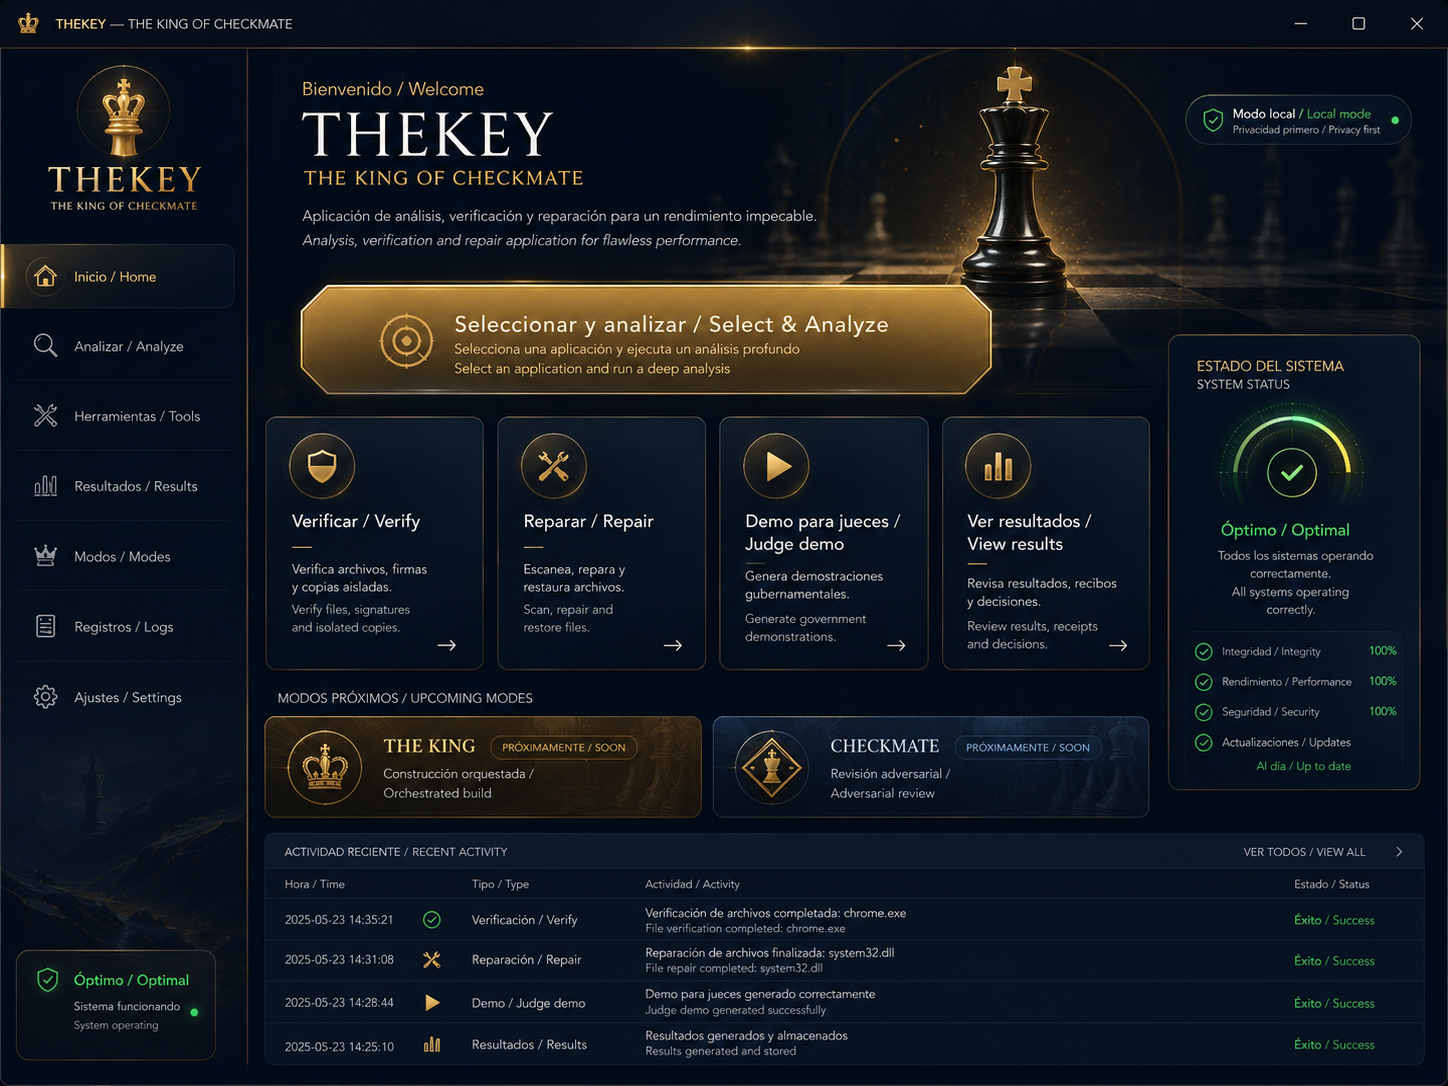
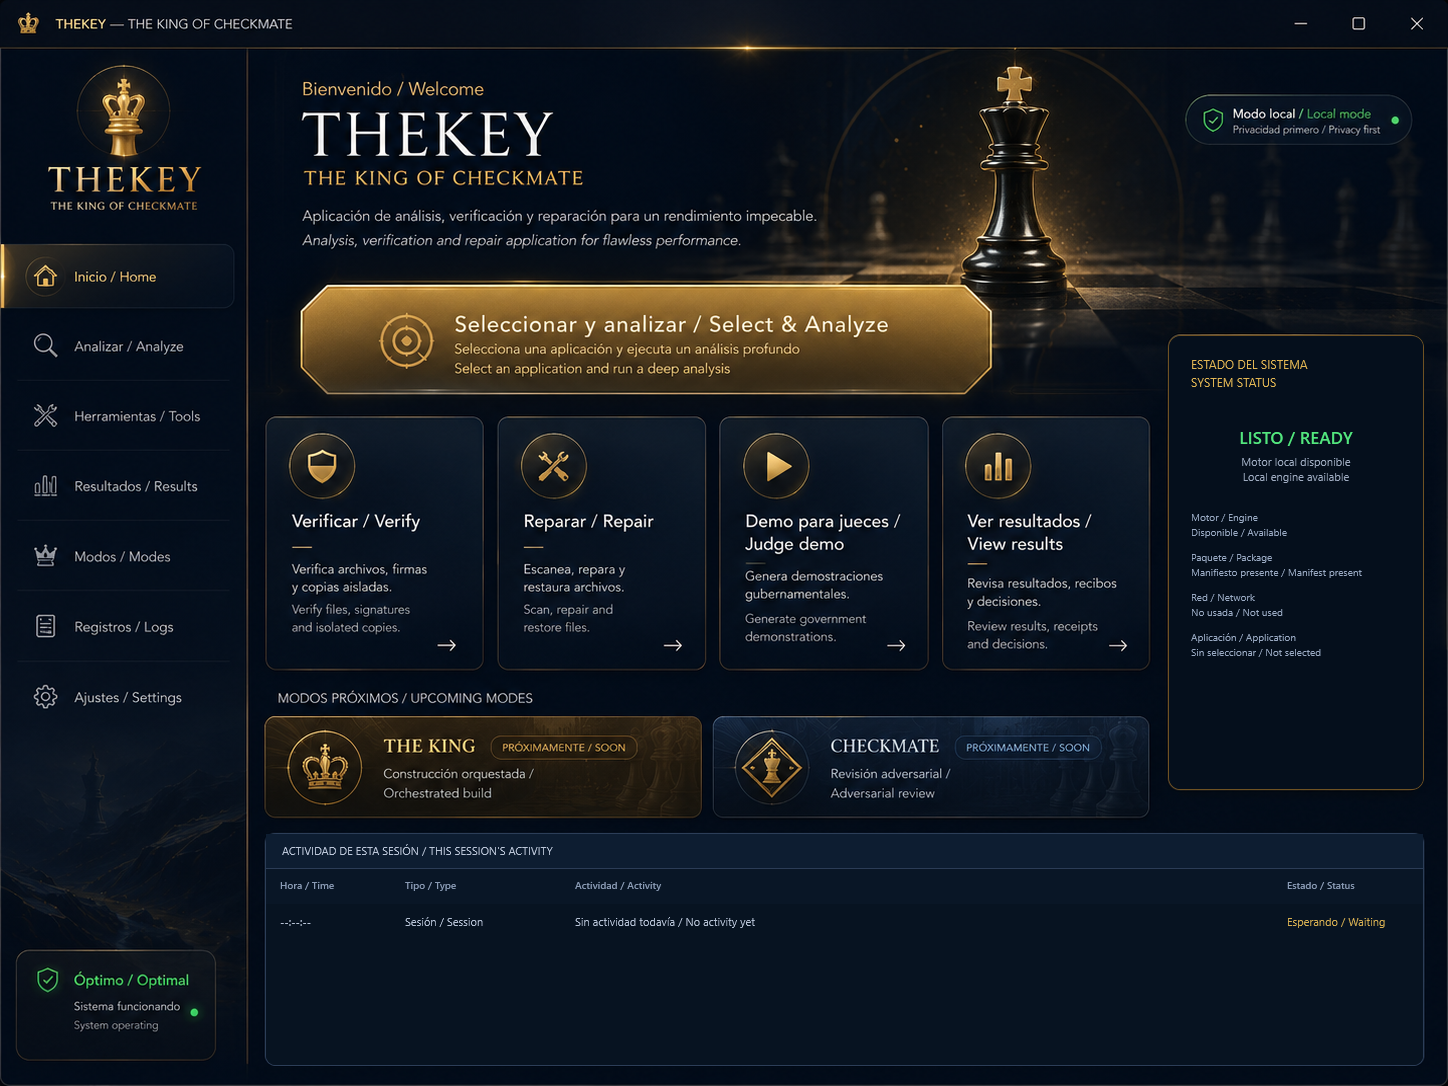
fix: harden portable Build Week delivery

diff --git a/portable/windows/TheKeyLauncher.cs b/portable/windows/TheKeyLauncher.cs
@@ -175,7 +175,12 @@ namespace TheKeyPortable
             Left = workAreaBounds.Left + Math.Max(0, (workAreaBounds.Width - Width) / 2);
             Top = workAreaBounds.Top + Math.Max(0, (workAreaBounds.Height - Height) / 2);
             WindowStyle = WindowStyle.None;
-            ResizeMode = ResizeMode.CanResize;
+            // A resizable borderless WPF window still receives a seven-pixel
+            // non-client resize frame.  That silently shrinks the client area
+            // and prevents the canonical bitmap from rendering one-to-one at
+            // 1448x1086.  The in-image maximize control still provides the
+            // uniform, letterboxed alternate-resolution view.
+            ResizeMode = ResizeMode.NoResize;
             UseLayoutRounding = true;
             SnapsToDevicePixels = true;
             Background = new SolidColorBrush(Color.FromRgb(4, 7, 12));
@@ -195,6 +200,10 @@ namespace TheKeyPortable
             scaler.StretchDirection = StretchDirection.Both;
             scaler.HorizontalAlignment = HorizontalAlignment.Stretch;
             scaler.VerticalAlignment = VerticalAlignment.Stretch;
+            // The canonical dashboard is a packaged raster reference.  When a
+            // smaller display requires a uniform fit, explicitly request WPF's
+            // best bitmap resampler instead of its DPI-dependent default.
+            RenderOptions.SetBitmapScalingMode(scaler, BitmapScalingMode.HighQuality);
             letterbox.Children.Add(scaler);
 
             Canvas composition = new Canvas();
@@ -270,6 +279,10 @@ namespace TheKeyPortable
             output.Text = "THEKEY listo / ready. Selecciona una aplicación para comenzar / Select an application to begin.\r\n";
             status = new TextBlock();
             status.Text = File.Exists(backend) ? "LISTO / READY" : "FALTA EL MOTOR / BACKEND MISSING";
+            status.Foreground = new SolidColorBrush(
+                File.Exists(backend) ? Color.FromRgb(83, 231, 126) : Color.FromRgb(255, 126, 126));
+            AddLiveSystemPanel(actions);
+            AddLiveActivityPanel(actions);
 
             string verificationCapture = Environment.GetEnvironmentVariable("THEKEY_CAPTURE_PATH");
             if (!String.IsNullOrWhiteSpace(verificationCapture))
@@ -316,6 +329,133 @@ namespace TheKeyPortable
             {
                 encoder.Save(stream);
             }
+        }
+
+        // The dashboard artwork is intentionally static, but operational data
+        // must always come from this running process. These opaque panels hide
+        // the illustrative values in the artwork and expose only facts the
+        // launcher can establish locally.
+        private void AddLiveSystemPanel(Panel host)
+        {
+            Border panel = new Border
+            {
+                Width = 256,
+                Height = 455,
+                Padding = new Thickness(22, 20, 22, 16),
+                CornerRadius = new CornerRadius(12),
+                Background = new SolidColorBrush(Color.FromRgb(5, 15, 28)),
+                BorderBrush = new SolidColorBrush(Color.FromRgb(111, 82, 35)),
+                BorderThickness = new Thickness(1),
+                IsHitTestVisible = false
+            };
+            StackPanel content = new StackPanel();
+            content.Children.Add(new TextBlock
+            {
+                Text = "ESTADO DEL SISTEMA\nSYSTEM STATUS",
+                FontSize = 12,
+                Foreground = new SolidColorBrush(Color.FromRgb(226, 182, 84)),
+                LineHeight = 18
+            });
+            status.FontSize = 17;
+            status.FontWeight = FontWeights.SemiBold;
+            status.TextAlignment = TextAlignment.Center;
+            status.HorizontalAlignment = HorizontalAlignment.Stretch;
+            status.Margin = new Thickness(0, 34, 0, 5);
+            content.Children.Add(status);
+            content.Children.Add(new TextBlock
+            {
+                Text = File.Exists(backend)
+                    ? "Motor local disponible\nLocal engine available"
+                    : "Motor local no disponible\nLocal engine unavailable",
+                FontSize = 11,
+                Foreground = new SolidColorBrush(Color.FromRgb(161, 174, 195)),
+                TextAlignment = TextAlignment.Center,
+                Margin = new Thickness(0, 0, 0, 20)
+            });
+            content.Children.Add(CreateLiveStatusLine(
+                "Motor / Engine", File.Exists(backend) ? "Disponible / Available" : "No disponible / Unavailable"));
+            string manifest = Path.Combine(root, "BUILD_MANIFEST.json");
+            content.Children.Add(CreateLiveStatusLine(
+                "Paquete / Package", File.Exists(manifest) ? "Manifiesto presente / Manifest present" : "Sin manifiesto / No manifest"));
+            content.Children.Add(CreateLiveStatusLine(
+                "Red / Network", "No usada / Not used"));
+            sourceState = CreateLiveStatusLine("Aplicación / Application", "Sin seleccionar / Not selected");
+            content.Children.Add(sourceState);
+            panel.Child = content;
+            Canvas.SetLeft(panel, 1168);
+            Canvas.SetTop(panel, 335);
+            Panel.SetZIndex(panel, 2);
+            host.Children.Add(panel);
+        }
+
+        private TextBlock CreateLiveStatusLine(string label, string value)
+        {
+            return new TextBlock
+            {
+                Text = label + "\n" + value,
+                FontSize = 10,
+                Foreground = new SolidColorBrush(Color.FromRgb(153, 169, 194)),
+                Margin = new Thickness(0, 7, 0, 3),
+                LineHeight = 15
+            };
+        }
+
+        private void AddLiveActivityPanel(Panel host)
+        {
+            Border panel = new Border
+            {
+                Width = 1159,
+                Height = 233,
+                CornerRadius = new CornerRadius(10),
+                Background = new SolidColorBrush(Color.FromRgb(7, 19, 33)),
+                BorderBrush = new SolidColorBrush(Color.FromRgb(44, 62, 88)),
+                BorderThickness = new Thickness(1),
+                IsHitTestVisible = false
+            };
+            Grid layout = new Grid();
+            layout.RowDefinitions.Add(new RowDefinition { Height = GridLength.Auto });
+            layout.RowDefinitions.Add(new RowDefinition { Height = GridLength.Auto });
+            layout.RowDefinitions.Add(new RowDefinition { Height = GridLength.Auto });
+            Border header = new Border
+            {
+                Padding = new Thickness(16, 9, 16, 9),
+                Background = new SolidColorBrush(Color.FromRgb(13, 29, 49)),
+                BorderBrush = new SolidColorBrush(Color.FromRgb(43, 60, 86)),
+                BorderThickness = new Thickness(0, 0, 0, 1),
+                Child = new TextBlock
+                {
+                    Text = "ACTIVIDAD DE ESTA SESIÓN / THIS SESSION'S ACTIVITY",
+                    FontSize = 11,
+                    Foreground = new SolidColorBrush(Color.FromRgb(191, 202, 220))
+                }
+            };
+            layout.Children.Add(header);
+            Grid columns = CreateActivityGrid();
+            columns.Background = new SolidColorBrush(Color.FromRgb(9, 22, 38));
+            columns.Children.Add(CreateActivityCell("Hora / Time", 0, true));
+            columns.Children.Add(CreateActivityCell("Tipo / Type", 1, true));
+            columns.Children.Add(CreateActivityCell("Actividad / Activity", 2, true));
+            columns.Children.Add(CreateActivityCell("Estado / Status", 3, true));
+            Grid.SetRow(columns, 1);
+            layout.Children.Add(columns);
+            Grid row = CreateActivityGrid();
+            row.Margin = new Thickness(0, 1, 0, 0);
+            recentTime = CreateActivityCell("--:--:--", 0, false);
+            recentType = CreateActivityCell("Sesión / Session", 1, false);
+            recentActivity = CreateActivityCell("Sin actividad todavía / No activity yet", 2, false);
+            recentState = CreateActivityCell("Esperando / Waiting", 3, false);
+            recentState.Foreground = new SolidColorBrush(Color.FromRgb(216, 177, 83));
+            row.Children.Add(recentTime);
+            row.Children.Add(recentType);
+            row.Children.Add(recentActivity);
+            row.Children.Add(recentState);
+            Grid.SetRow(row, 2);
+            layout.Children.Add(row);
+            panel.Child = layout;
+            Canvas.SetLeft(panel, 265);
+            Canvas.SetTop(panel, 833);
+            Panel.SetZIndex(panel, 2);
+            host.Children.Add(panel);
         }
 
         private static Button AddHotspot(
@@ -801,8 +941,8 @@ namespace TheKeyPortable
                 TextAlignment = TextAlignment.Center,
                 Margin = new Thickness(0, 7, 0, 18)
             });
-            content.Children.Add(CreateStatusLine("✓", "Integridad / Integrity", "Verificada / Verified"));
-            content.Children.Add(CreateStatusLine("✓", "Red / Network", "No requerida / Not required"));
+            content.Children.Add(CreateStatusLine("○", "Paquete / Package", "Manifiesto presente / Manifest present"));
+            content.Children.Add(CreateStatusLine("○", "Red / Network", "No usada / Not used"));
             sourceState = CreateStatusLine("○", "Aplicación / Application", "Sin seleccionar / Not selected");
             content.Children.Add(sourceState);
             panel.Child = content;

diff --git a/tests/unit/test_portable_entry.py b/tests/unit/test_portable_entry.py
@@ -9,11 +9,13 @@ from pathlib import Path
 ROOT = Path(__file__).resolve().parents[2]
 ENTRY_PATH = ROOT / "scripts" / "portable_entry.py"
 LAUNCHER_PATH = ROOT / "portable" / "windows" / "TheKeyLauncher.cs"
+LAUNCHER_MANIFEST_PATH = ROOT / "portable" / "windows" / "TheKeyLauncher.manifest"
 PORTABLE_BUILD_PATH = ROOT / "scripts" / "build-portable.ps1"
 HERO_PATH = ROOT / "portable" / "windows" / "assets" / "THEKEY_hero_chess.png"
 ICON_PATH = ROOT / "portable" / "windows" / "assets" / "THEKEY_app_icon.png"
 UI_REFERENCE_PATH = ROOT / "assets" / "reference" / "THEKEY_UI_REFERENCE.png"
 HOTSPOT_MAP_PATH = ROOT / "docs" / "build-week" / "PIXEL_PERFECT_HOTSPOTS.json"
+PIXEL_VERIFIER_PATH = ROOT / "scripts" / "verify-pixel-ui.ps1"
 
 
 def _load_entry():
@@ -113,6 +115,11 @@ def test_premium_launcher_uses_packaged_hero_and_real_activity_state():
     assert "SystemParameters.WorkArea" in launcher
     assert "WindowStartupLocation.Manual" in launcher
     assert "100%" not in launcher
+    assert "AddLiveSystemPanel(actions);" in launcher
+    assert "AddLiveActivityPanel(actions);" in launcher
+    assert "ACTIVIDAD DE ESTA SESIÓN / THIS SESSION'S ACTIVITY" in launcher
+    assert "Manifiesto presente / Manifest present" in launcher
+    assert "No usada / Not used" in launcher
 
 
 def test_pixel_perfect_reference_is_exact_and_packaged_without_transformation():
@@ -131,7 +138,27 @@ def test_pixel_perfect_reference_is_exact_and_packaged_without_transformation():
     assert "reference.PixelHeight" in launcher
     assert "BitmapCreateOptions.PreservePixelFormat" in launcher
     assert "scaler.Stretch = Stretch.Uniform" in launcher
+    assert "RenderOptions.SetBitmapScalingMode(scaler, BitmapScalingMode.HighQuality);" in launcher
+    assert "ResizeMode = ResizeMode.NoResize" in launcher
+    assert "TheKeyLauncher.manifest" in build
+    assert '"/win32manifest:$launcherManifest"' in build
     assert "Copy-Item -LiteralPath $sourceUiReference -Destination $packageRoot" in build
+
+
+def test_portable_launcher_declares_per_monitor_dpi_awareness():
+    manifest = LAUNCHER_MANIFEST_PATH.read_text(encoding="utf-8")
+
+    assert "PerMonitorV2" in manifest
+    assert "true/pm" in manifest
+
+
+def test_pixel_verifier_excludes_only_live_data_regions():
+    verifier = PIXEL_VERIFIER_PATH.read_text(encoding="utf-8")
+
+    assert "ignoredRegions" in verifier
+    assert "ignored_dynamic_regions" in verifier
+    assert "Rectangle]::new(1168, 335, 256, 455)" in verifier
+    assert "Rectangle]::new(265, 833, 1159, 233)" in verifier
 
 
 def test_pixel_perfect_hotspots_cover_every_visible_action():

diff --git a/src/thekey/project_verification.py b/src/thekey/project_verification.py
@@ -624,7 +624,10 @@ def verify_application(
         )
         compile_gate = "DOTNET_BUILD_PASSED"
     elif profile_name == "node-javascript":
-        npm = "npm.cmd" if os.name == "nt" and shutil.which("npm.cmd") else "npm"
+        # On Windows npm is a command script. Invoke the explicit `.cmd`
+        # entrypoint so subprocess does not depend on shell resolution or an
+        # incidental `npm` shim being present on PATH.
+        npm = "npm.cmd" if os.name == "nt" else "npm"
         compile_result = _run_bounded_command(
             [npm, "run", "build", "--if-present"], workspace,
         )

diff --git a/docs/build-week/DELIVERY_CHECKPOINTS.md b/docs/build-week/DELIVERY_CHECKPOINTS.md
@@ -1,0 +1,74 @@
+# OpenAI Build Week delivery checkpoints
+
+This checklist is a release record for the final Build Week candidate. It
+separates verified facts from actions that require the submission owner's
+authenticated account or a public-video URL. It must not be treated as a
+substitute for the [Official Rules](https://openai.devpost.com/rules).
+
+## Checkpoint 1 — rules and eligibility
+
+- [x] Developer Tools is the selected track.
+- [x] The repository identifies the project as pre-existing and documents the
+  post-baseline delta in `BUILD_WEEK_DELTA.md`.
+- [x] The README and Devpost draft identify Codex and GPT-5.6 use, the primary
+  `/feedback` Session ID, installation instructions, supported platforms, and
+  a judge path that does not require rebuilding the app.
+- [x] Submission materials are prepared in English.
+- [ ] The submission owner confirms individual/team eligibility and accepts the
+  official rules in Devpost.
+
+## Checkpoint 2 — product truthfulness and Windows presentation
+
+- [x] The portable launcher declares Per Monitor V2 DPI awareness and uses
+  high-quality downscaling for small displays.
+- [x] The visible system-status and activity areas are live launcher panels;
+  no illustrative health percentage, date, activity, or repair result is shown
+  as live data.
+- [x] The live status panel reports only locally established facts: backend
+  availability, build-manifest presence, no network use, and the selected
+  application.
+- [x] Visual verification remains exact outside the two explicitly documented
+  live-data regions.
+
+## Checkpoint 3 — reproducible package
+
+- [x] Windows x64 portable package built with Python 3.13.13 and PyInstaller
+  6.21.0.
+- [x] Package contains the WPF launcher, frozen core, judge sample, repair
+  sample, guide, build manifest, and ZIP archive.
+- [x] Final local ZIP SHA-256 is recorded by `scripts/build-portable.ps1` in
+  its build output. Rebuild after the Git commit to bind the manifest to the
+  final source commit.
+
+## Checkpoint 4 — functional and safety gates
+
+- [x] Full regression suite: 190 passed, 1 skipped (symlink creation is not
+  supported on this filesystem).
+- [x] Modified Python files pass Ruff.
+- [x] Judge Mode from the final portable package: ALLOW invokes one handler,
+  DENY invokes zero, 4/4 gates pass, decision is `RELEASE_ELIGIBLE`, source is
+  unchanged, and bound receipts validate.
+- [x] The packaged repair sample is inspected, blocked on its initial defect,
+  repaired only after explicit test and apply consents, and re-verified as
+  `REPAIRED_AND_VERIFIED` in a temporary copy.
+- [x] Pixel verification reports `PIXEL_EXACT` for all static pixels.
+
+## Checkpoint 5 — Git and submission readiness
+
+- [ ] Commit the audited candidate and push it to the repository used in the
+  Devpost submission.
+- [ ] Make the repository public with its license, or grant both
+  `[email redacted]` and `[email redacted]` access when private.
+- [ ] Replace `PENDING_PUBLIC_YOUTUBE_URL` in `DEVPOST_DRAFT.md` with a public
+  YouTube URL for a video under three minutes with English narration explaining
+  the working demo, Codex, and GPT-5.6.
+- [ ] Enter the public repository URL, YouTube URL, selected track, text
+  description, and `/feedback` Session ID in Devpost; save/submit before the
+  official deadline.
+
+## Final checkpoint — publication
+
+This checkpoint is PASS only after the final candidate is pushed to the chosen
+repository and Devpost confirms the submission. Record the final Git commit,
+repository URL, public YouTube URL, and Devpost confirmation URL here. Do not
+claim it complete from local build evidence alone.